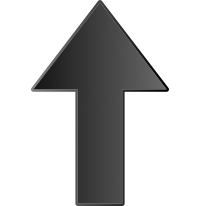
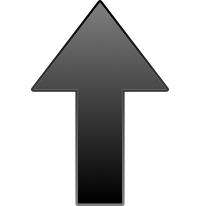
u

diff --git a/style.css b/style.css
@@ -177,14 +177,19 @@ header li {
 /* Header logo styling */
 header img {
     width: 52px;
-    transition: 0.2s ease;
+    height: 52px;
+    object-fit: contain;
+    
+    transition: opacity 0.2s ease, transform 0.2s ease;
+    will-change: transform, opacity;
+    transform-origin: center center;
+    backface-visibility: hidden;
+    transform: translateZ(0);
 }
 
 header img:hover {
     opacity: 0.5;
-    transform: scale(1.1);
-    will-change: transform, opacity;
-    transform-origin: center;
+    transform: scale(1.1) translateZ(0);
 }
 
 /* Header links */
@@ -246,14 +251,19 @@ footer li {
 /* Footer image styling */
 footer img {
     width: 26px;
-    transition: 0.2s ease;
+    height: 26px;
+    object-fit: contain;
+    
+    transition: opacity 0.2s ease, transform 0.2s ease;
     will-change: transform, opacity;
-    transform-origin: center;
+    transform-origin: center center;
+    backface-visibility: hidden;
+    transform: translateZ(0);
 }
 
 footer img:hover {
     opacity: 0.5;
-    transform: scale(1.1);
+    transform: scale(1.1) translateZ(0);
 }
 
 /* Footer links */
